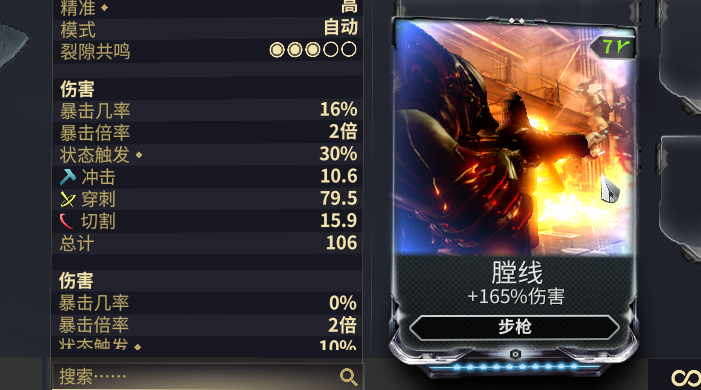
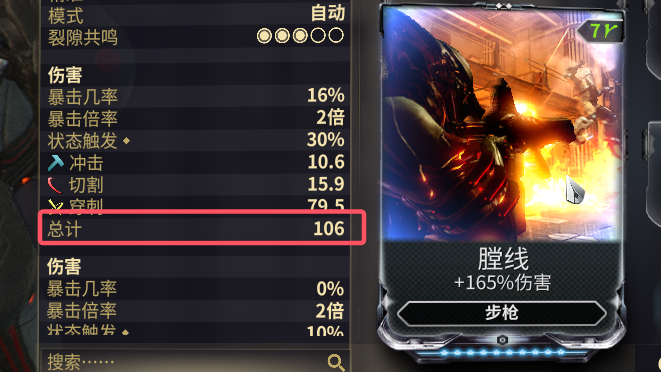
chore: 伤害计算完成

diff --git a/docs/机制/机制讲堂/01-伤害计算.md b/docs/机制/机制讲堂/01-伤害计算.md
@@ -29,8 +29,9 @@ A: 以下回答需要知道伤害计算的基础才听得懂。
 紫卡上经常会有人说，“负物理影响初始面板”。这是错的，虽然这句话说得很模糊，但是如果有人说了这句话，那么他想表达的意思就是错的。
 :::
 
+### 1. 膛线
 ![tangx.png](src%2Ftangx.png)
-言归正传，我们上一张膛线，效果：**+165%的伤害**  
+言归正传，我们上一张【膛线】，效果：**+165%的伤害**  
 那么此时面板就是 
 $$
 \begin{gather*}
@@ -43,4 +44,50 @@ $$
 + 因为这个165%是额外增加的，$40+40 \cdot 165\% = 40 \cdot (1+165\%)$。想想3的2倍，和3增加2倍。以前学的知识，倍数都是整数，这里可能就容易忽略。
 :::
 
+### 2. 膛线+地狱火
+![tx+dyh.png](src%2Ftx%2Bdyh.png)
+这时，我们再上一个【地狱火】，效果：**+90%的火焰伤害**
+$$
+\begin{gather*}
+\text{额外增加的\textbf{火焰伤害}}：106 \cdot 90\% = 95.4 \\
+\text{总计}：106 \cdot (1+90\%) = 201.4
+\end{gather*}
+$$ 
 
+### 3. 膛线+地狱火+暴风使者
+![tx+dyh+bfsz.png](src%2Ftx%2Bdyh%2Bbfsz.png)
+又上一个【暴风使者】，效果：**+90%的电击伤害**  
+:::tip
++ 可以看到面板上的**火焰**伤害变成0，然后也没有**电击**伤害，而且多出了一个**辐射**伤害。这涉及到**元素复合**的概念，这里就不详细介绍了。  
++ 元素复合：元素分为**单元素**和**复合元素**，2个单元素可以组成特定的复合元素。  
++ 这里就是**电**+**火**=**辐射**
+:::
+
+90%**电击**跟90%**火焰**是同类加成，所以这2个加成会先相加，90%+90%=180%      
+$$
+\begin{gather*}
+\text{额外增加的\textbf{辐射伤害}}：106 \cdot 180\% = 190.8 \\
+\text{总计}：106 \cdot (1+90\%+90\%) = 296.8
+\end{gather*}
+$$ 
+
+:::tip
+Q：如何判断**同类加成**？  
+A：1.这个除了一些众所周知的，一般都是需要自己去推测算式，然后再去实际打伤害，看造成的伤害是否与自己推测的理论伤害相符。  
+2.即使是同一个加成，在不同的环境（比如：武器）可能也会有不同的计算。所以在遇到不同的看法时，也要保持理性的判断。
+:::
+
+### 4. 膛线+地狱火+暴风使者+重型口径
+![zkj.png](src%2Fzkj.png)
+最后一个例子，上一个【重型口径】，效果：**+165%伤害**
++ 同类①：【膛线】+【重口】    165%+165% = 330%
++ 同类②：【地狱火】+【暴风使者】    90%+90% = 180%
+
+$$
+\begin{gather*}
+\text{总计}：40 \cdot (1+165\%+165\%) \cdot (1+90\%+90\%) = 481.6
+\end{gather*}
+$$ 
+
+## 总结
+综上，伤害计算就是普通的加减乘除。更简单的说，就是多个因子做乘法，只是在相乘时，需要判断，哪些因子是同类的，需要先相加，再做之后的计算。
